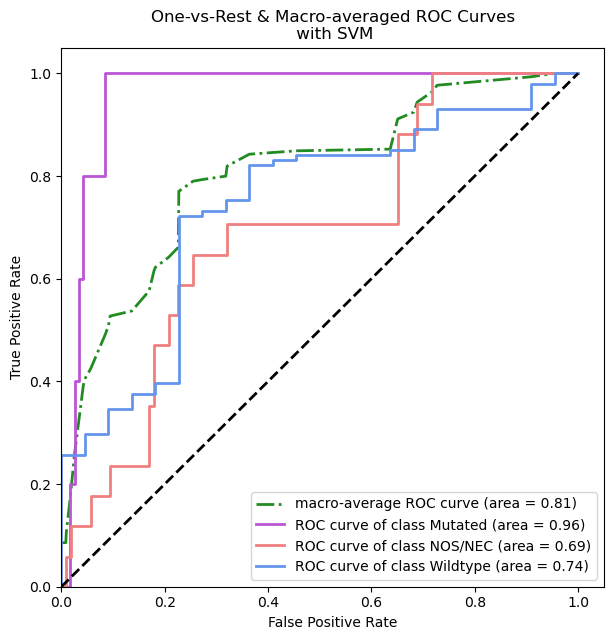
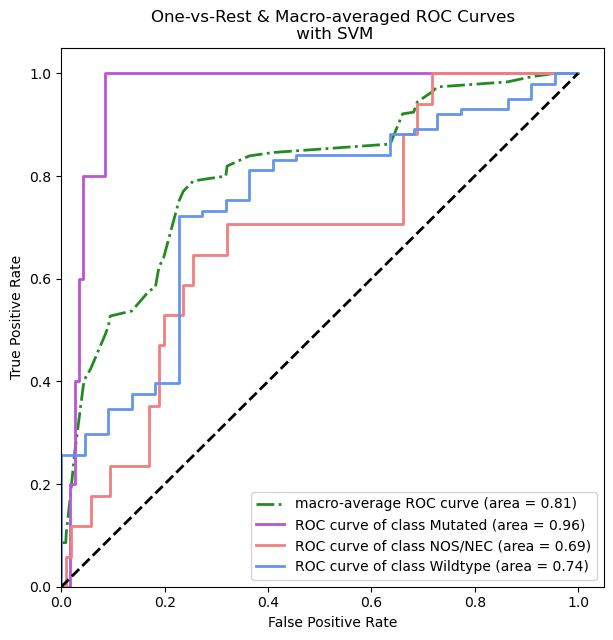
svm sus

diff --git a/Code/03_3_Support Vector Machine.py b/Code/03_3_Support Vector Machine.py
@@ -214,6 +214,7 @@ y_test = pd.read_csv("./Output/Data/02 13-Preprocessed Data/y_test_final.csv")
 
 print('Scaling')
 scaler = StandardScaler()
+np.random.seed(42)
 X_train_scaled = scaler.fit_transform(X_train)
 X_test_scaled = scaler.transform(X_test)
 
@@ -312,6 +313,7 @@ performance_evaluation(
     # model
     grid1
     )
+
 #Performance on testing set:
 pred1_test = grid1.predict(X_test_scaled)
 performance_evaluation(
